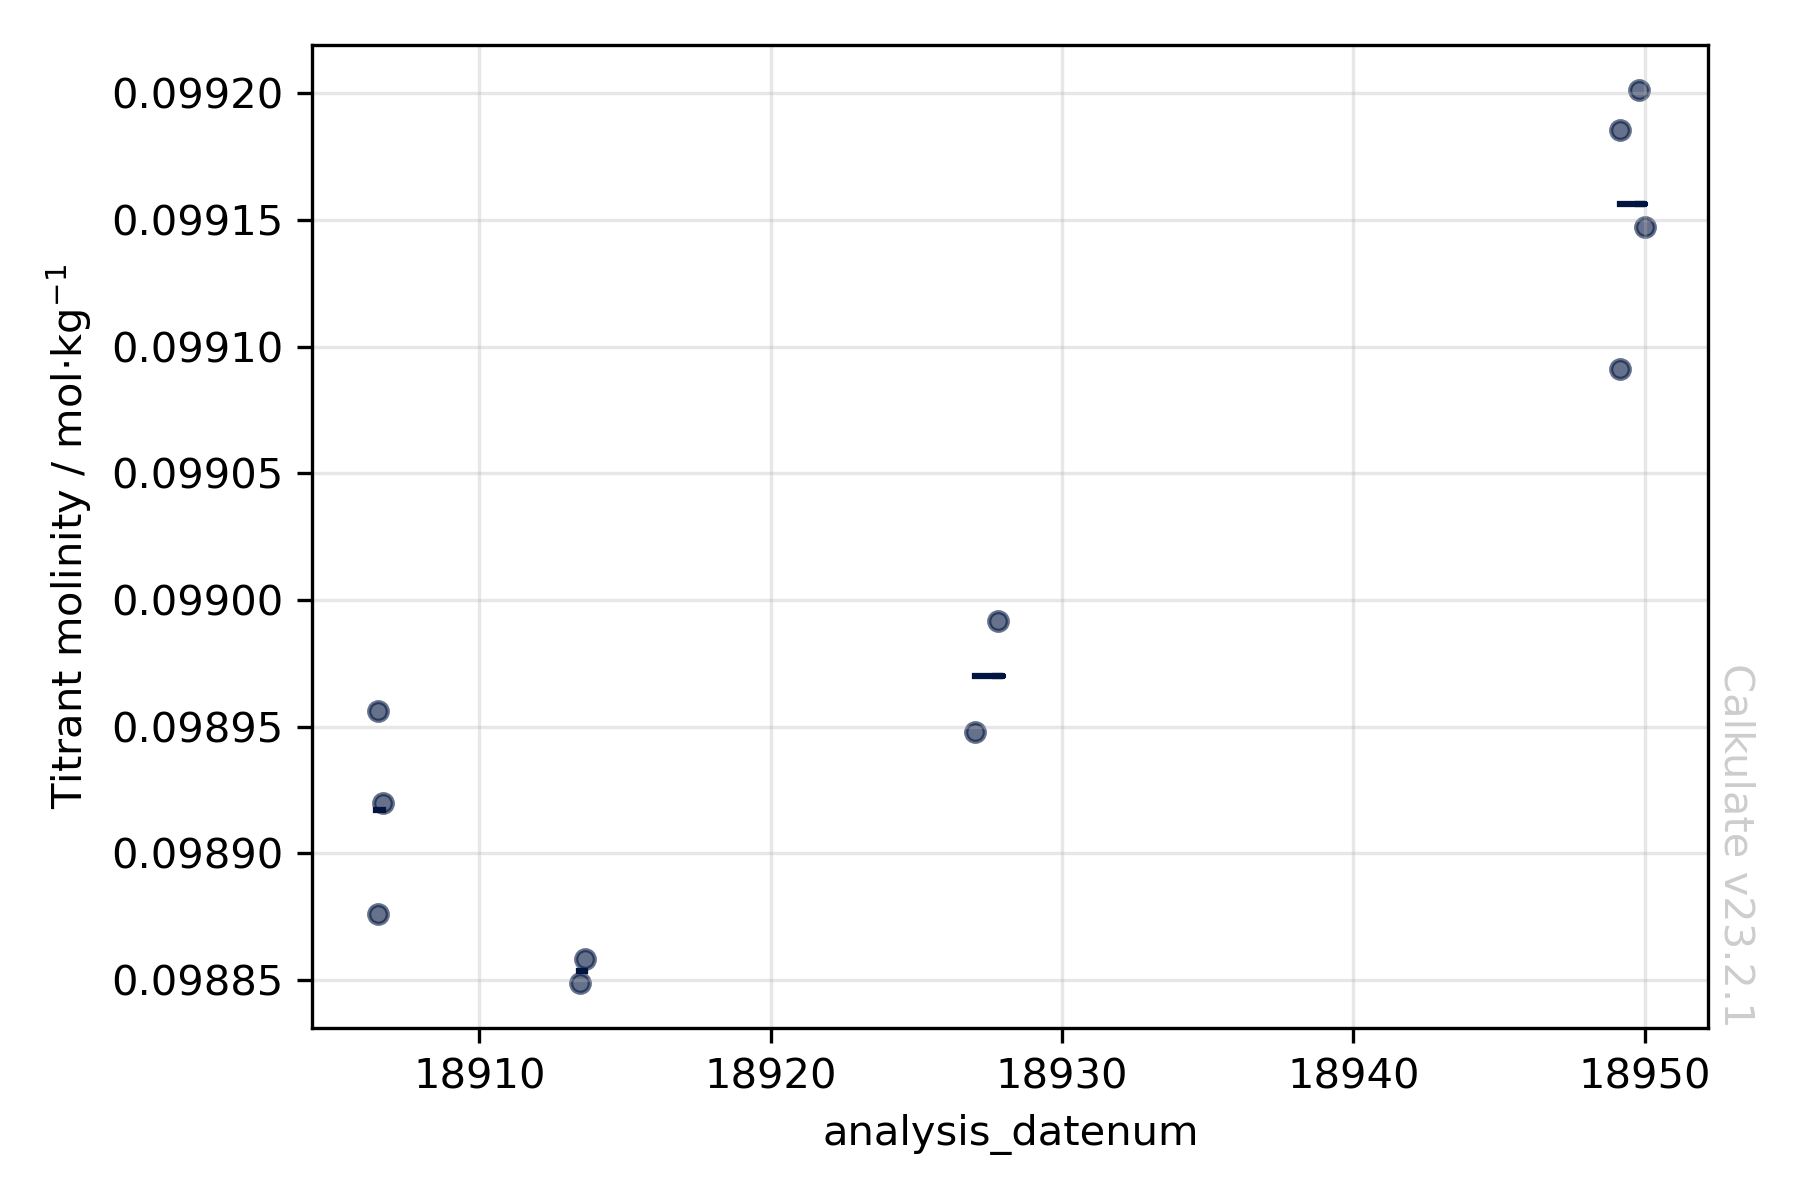
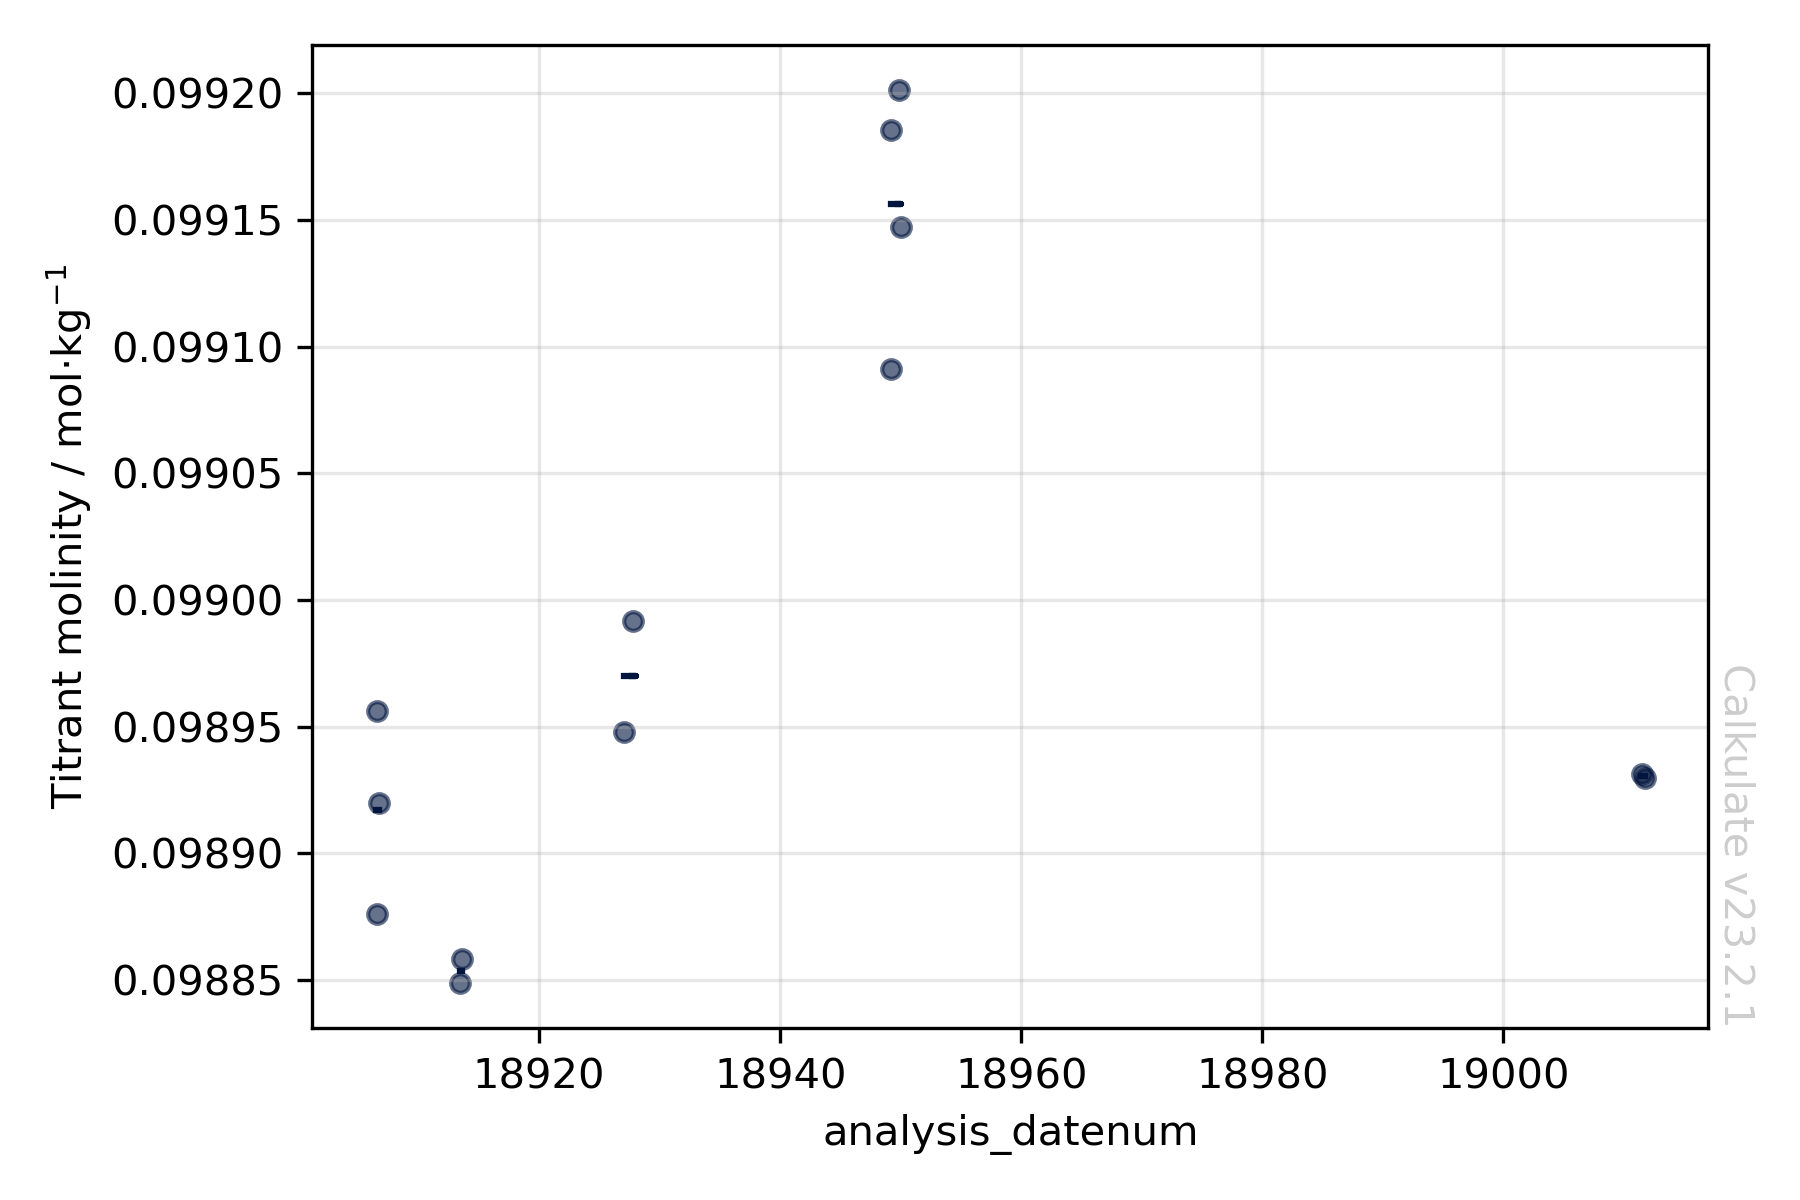
processed new TA batch

diff --git a/vindta/storage_test_process.py b/vindta/storage_test_process.py
@@ -165,11 +165,13 @@ dbs["file_path"] = "data/LD_storage_test_TA/"
 # Assign TA acid batches
 # Here we consider each analysis batch has its own acid batch, although 
 # first 4 analysis had the same bach made 15/09/2021
+# Second acid batch made on 19/01/2022
 # // this remedies the acid drift
 dbs['analysis_batch'] = 1 # made 15/09/2021
 dbs.loc[dbs['analysis_datetime'].dt.day==13, 'analysis_batch'] = 2
 dbs.loc[dbs['analysis_datetime'].dt.day==27, 'analysis_batch'] = 3
 dbs.loc[dbs['analysis_datetime'].dt.day==18, 'analysis_batch'] = 4
+dbs.loc[dbs['analysis_datetime'].dt.day==19, 'analysis_batch'] = 5
 
 # Select which TA CRMs to use/avoid for calibration
 dbs["reference_good"] = ~np.isnan(dbs.alkalinity_certified)
@@ -182,6 +184,8 @@ dbs.loc[dbs['bottle']=='S24', 'file_good'] = False
 dbs.loc[dbs['bottle']=='S99', 'file_good'] = False
 dbs.loc[dbs['bottle']=='J17', 'file_good'] = False
 dbs.loc[dbs['bottle']=='CRM-189-0159-3', 'file_good'] = False
+dbs.loc[dbs["bottle"]=="S04", "file_good"] = False
+dbs.loc[dbs["bottle"]=="S04_2", "file_good"] = False
 
 # Calibrate and solve alkalinity and plot calibration
 calk.io.get_VINDTA_filenames(dbs)
